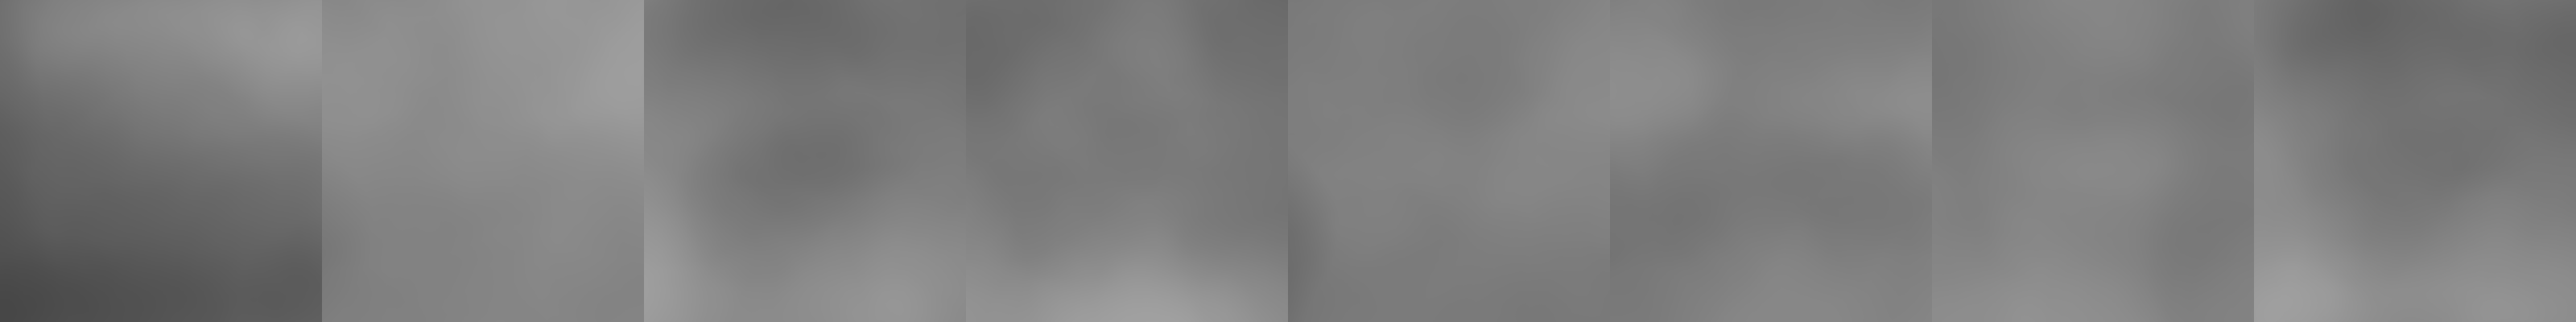
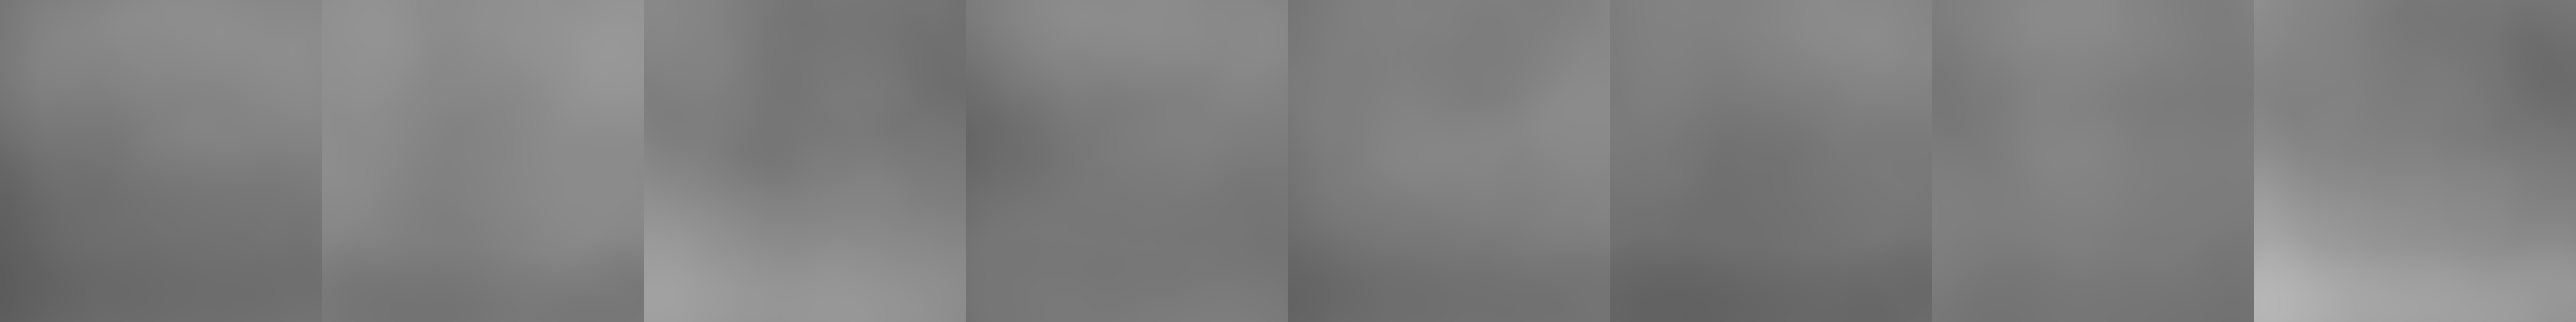
Change mpi dataset for mobile viewer. (under test)

diff --git a/mpi/tiger-front/mobile/config.js b/mpi/tiger-front/mobile/config.js
@@ -1,6 +1,6 @@
 
-  const w = 640;
-  const h = 480;
+  const w = 400;
+  const h = 300;
   const scale = 1;
   const nSubPlanes = 1;
   const layers = 12;
@@ -8,16 +8,16 @@
 
   const planes = [[1.3333333730697632,1.3939604456995573,1.4545875183293517,1.515214590959146,1.5758416635889403,1.6364687362187345,1.6970958088485288,1.757722881478323,1.8183499541081174,1.8789770267379116,1.9396040993677057,2.0002311719975,2.0608582446272945,2.121485317257089,2.182112389886883,2.242739462516677,2.3033665351464716,2.3639936077762655,2.42462068040606,2.4852477530358543,2.5458748256656483,2.606501898295443,2.667128970925237,2.7277560435550314,2.788383116184826,2.8490101888146198,2.909637261444414,2.9702643340742085,3.0308914067040025,3.0915184793337973,3.1521455519635913,3.2127726245933856,3.27339969722318,3.334026769852974,3.3946538424827684,3.4552809151125627,3.5159079877423567,3.576535060372151,3.6371621330019455,3.69778920563174,3.758416278261534,3.819043350891328,3.8796704235211226,3.940297496150917,4.000924568780711,4.061551641410505,4.1221787140403,4.1828057866700945,4.2434328592998884,4.304059931929682,4.364687004559476,4.42531407718927,4.485941149819065,4.54656822244886,4.607195295078654,4.667822367708448,4.728449440338242,4.789076512968037,4.849703585597831,4.910330658227625,4.970957730857419,5.031584803487213,5.092211876117008,5.152838948746802,5.213466021376597,5.274093094006391,5.334720166636185,5.39534723926598,5.4559743118957735,5.5166013845255675,5.577228457155362,5.637855529785156]];
 
-  const f = 394.7192402385091 * scale;
+  const f = 246.69952514906822 * scale;
   var names = [""];
   var nMpis = names.length;
 
-  const py = 239.5027526544751 * scale;
-  const px = 334.78532562016807 * scale;
+  const py = 149.50172040904692 * scale;
+  const px = 209.05332851260505 * scale;
   const invz = false;
 
-  const offset = 128;
-  const maxcol = 4;
+  const offset = 80;
+  const maxcol = 7;
   const version = "learned_basis8";
   const extrinsics = [[0.9997125864028931,0.011174699291586876,0.021207239478826523,0.0,-0.01122159045189619,0.9999347925186157,0.002093249000608921,0.0,-0.02118246629834175,-0.002330626593902707,0.9997729063034058,0.0,-0.20847119390964508,0.08096588402986526,0.018859874457120895,1.0]];
 

diff --git a/mpi/tiger-front/tiger-mobile/config.js b/mpi/tiger-front/tiger-mobile/config.js
@@ -1,0 +1,27 @@
+
+  const w = 640;
+  const h = 480;
+  const scale = 1;
+  const nSubPlanes = 1;
+  const layers = 12;
+  const sublayers = 6;
+
+  const planes = [[1.3333333730697632,1.3939604456995573,1.4545875183293517,1.515214590959146,1.5758416635889403,1.6364687362187345,1.6970958088485288,1.757722881478323,1.8183499541081174,1.8789770267379116,1.9396040993677057,2.0002311719975,2.0608582446272945,2.121485317257089,2.182112389886883,2.242739462516677,2.3033665351464716,2.3639936077762655,2.42462068040606,2.4852477530358543,2.5458748256656483,2.606501898295443,2.667128970925237,2.7277560435550314,2.788383116184826,2.8490101888146198,2.909637261444414,2.9702643340742085,3.0308914067040025,3.0915184793337973,3.1521455519635913,3.2127726245933856,3.27339969722318,3.334026769852974,3.3946538424827684,3.4552809151125627,3.5159079877423567,3.576535060372151,3.6371621330019455,3.69778920563174,3.758416278261534,3.819043350891328,3.8796704235211226,3.940297496150917,4.000924568780711,4.061551641410505,4.1221787140403,4.1828057866700945,4.2434328592998884,4.304059931929682,4.364687004559476,4.42531407718927,4.485941149819065,4.54656822244886,4.607195295078654,4.667822367708448,4.728449440338242,4.789076512968037,4.849703585597831,4.910330658227625,4.970957730857419,5.031584803487213,5.092211876117008,5.152838948746802,5.213466021376597,5.274093094006391,5.334720166636185,5.39534723926598,5.4559743118957735,5.5166013845255675,5.577228457155362,5.637855529785156]];
+
+  const f = 394.7192402385091 * scale;
+  var names = [""];
+  var nMpis = names.length;
+
+  const py = 239.5027526544751 * scale;
+  const px = 334.78532562016807 * scale;
+  const invz = false;
+
+  const offset = 128;
+  const maxcol = 4;
+  const version = "learned_basis8";
+  const extrinsics = [[0.9997125864028931,0.011174699291586876,0.021207239478826523,0.0,-0.01122159045189619,0.9999347925186157,0.002093249000608921,0.0,-0.02118246629834175,-0.002330626593902707,0.9997729063034058,0.0,-0.20847119390964508,0.08096588402986526,0.018859874457120895,1.0]];
+
+  const rads = [[0.809344345331192,0.5152335345745087,0.15201963633298876]];
+  const focal  = 4.516409719444575;
+
+  
